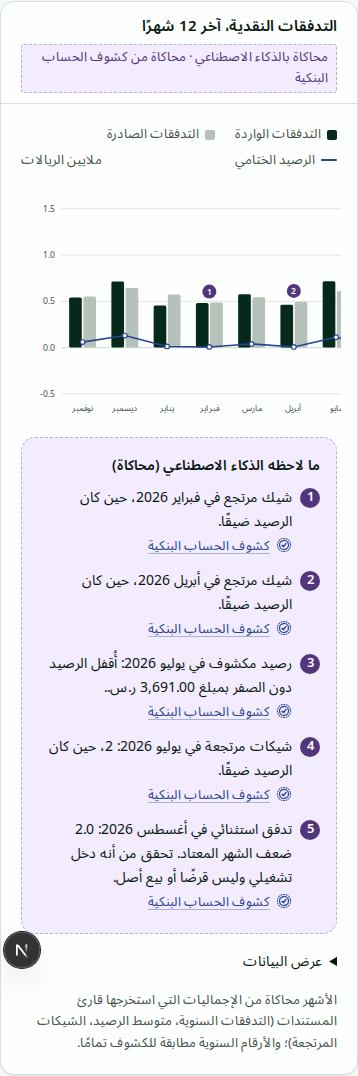
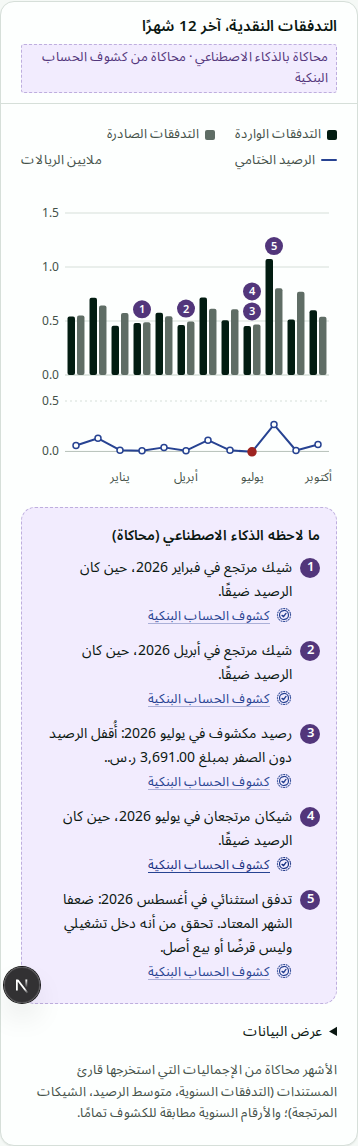
feat(credit): cash-flow chart readability (Layla review)
Drawn at its real width so axis labels are 12px; all twelve months fit on
phones (labels thin out, Arabic sooner); outflow bars in ink-subtle for 3:1
contrast, inflows in pine-deep; the closing balance in its own strip with a
zero line and red overdrawn months; no gridline below zero. Arabic dual and
plural for returned cheques, and "twice a typical month". DESIGN.md: the
left-to-right time axis rule for charts in Arabic.

diff --git a/src/components/credit/manager/cashflow-chart.tsx b/src/components/credit/manager/cashflow-chart.tsx
@@ -1,7 +1,7 @@
 "use client";
 
-import { useMemo } from "react";
-import { annotate, monthlyCashflow, type CashflowAnnotation } from "@/domain/credit/cashflow";
+import { useEffect, useMemo, useRef, useState } from "react";
+import { annotate, monthlyCashflow, type CashflowAnnotation, type CashflowMonth } from "@/domain/credit/cashflow";
 import type { CreditProfile } from "@/domain/credit/types";
 import { sar } from "@/domain/money";
 import type { CreditDocument } from "@/domain/types";
@@ -10,20 +10,56 @@ import { credit } from "@/i18n/credit";
 import { useFormat, useLocale, useMessages } from "@/i18n/locale";
 import { AiLabel, EvidenceSeal, Panel } from "@/components/ui";
 
-const W = 720;
-const H = 300;
-const PAD = { top: 28, right: 16, bottom: 34, left: 52 };
+/** Vertical layout in CSS pixels. The chart is drawn at its real width, so 12px labels render at 12px. */
+const H = 304;
+const LEFT = 44;
+const RIGHT = 8;
+const BARS = { top: 26, bottom: 188 };
+const STRIP = { top: 214, bottom: 272 };
+const LABEL_Y = 294;
+const FONT = 12;
 
 /** Short month names in the reader's language; Latin digits, Gregorian calendar (the Saudi finance-tool norm). */
 const monthName = (ym: string, locale: "en" | "ar", withYear = false) =>
-  new Intl.DateTimeFormat(locale === "ar" ? "ar-SA-u-nu-latn-ca-gregory" : "en-GB", { month: "short", ...(withYear ? { year: "numeric" } : {}), timeZone: "UTC" }).format(new Date(`${ym}-01T00:00:00Z`));
+  new Intl.DateTimeFormat(locale === "ar" ? "ar-SA-u-nu-latn-ca-gregory" : "en-GB", { month: "short", ...(withYear ? { year: "numeric" } : {}), timeZone: "UTC" }).format(
+    new Date(`${ym}-01T00:00:00Z`),
+  );
+
+/** A round step (1, 2 or 5 x 10^n) for about `count` intervals over a span. */
+function niceStep(span: number, count: number): number {
+  const rough = span / count || 1;
+  const mag = 10 ** Math.floor(Math.log10(rough));
+  return [1, 2, 5, 10].map((k) => k * mag).find((v) => v >= rough)!;
+}
+
+/** "1.5", "0.25", never "-0.0". */
+const millions = (v: number, step: number) => {
+  const digits = step >= 1_000_000 ? 0 : step >= 100_000 ? 1 : 2;
+  return (Math.abs(v) < step / 1000 ? 0 : v / 1_000_000).toFixed(digits);
+};
+
+/** Width of the element, measured after mount and on resize; 0 until measured. */
+function useWidth() {
+  const ref = useRef<HTMLDivElement>(null);
+  const [width, setWidth] = useState(0);
+  useEffect(() => {
+    const el = ref.current;
+    if (!el) return;
+    const ro = new ResizeObserver(([entry]) => setWidth(Math.round(entry!.contentRect.width)));
+    ro.observe(el);
+    return () => ro.disconnect();
+  }, []);
+  return [ref, width] as const;
+}
 
 /**
  * Twelve months of cash flow from the bank statements: inflow and outflow bars,
- * the closing balance as a line, and numbered simulated-AI notes pinned to
- * months, each linking to the bank-statement evidence. The time axis runs left
- * to right in both languages, with Latin digits. Fixed aspect ratio, so the
- * page never shifts; the data is also available as a table.
+ * the closing balance in its own strip underneath (so it is readable at its own
+ * scale, with overdrawn months marked), and numbered simulated-AI notes pinned
+ * to months, each linking to the bank-statement evidence. The time axis runs
+ * left to right in both languages, with Latin digits. The chart has a fixed
+ * height and fits all twelve months at any width, so nothing shifts or hides;
+ * the data is also available as a table.
  */
 export function CashflowChart({ profile, asOf, seed, documents }: { profile: CreditProfile; asOf: string; seed: string; documents: CreditDocument[] }) {
   const all = useMessages(credit);
@@ -32,6 +68,7 @@ export function CashflowChart({ profile, asOf, seed, documents }: { profile: Cre
   const locale = useLocale();
   const months = useMemo(() => monthlyCashflow(profile, asOf, seed), [profile, asOf, seed]);
   const notes = useMemo(() => annotate(months, profile.bank?.negativeBalanceDays ?? 0), [months, profile.bank?.negativeBalanceDays]);
+  const [frame, width] = useWidth();
   if (months.length !== 12) return null;
 
   const bankDoc = documents.find((d) => d.type === "bank_statements");
@@ -40,34 +77,19 @@ export function CashflowChart({ profile, asOf, seed, documents }: { profile: Cre
     return bankDoc && key ? `#${bankDoc.id}-${key}` : undefined;
   };
 
-  // Round tick steps (1, 2 or 5 x 10^n) so the axis reads cleanly.
-  const rawTop = Math.max(...months.flatMap((x) => [x.inflowSar, x.outflowSar, x.closingSar]));
-  const rawBottom = Math.min(0, ...months.map((x) => x.closingSar));
-  const rough = (rawTop - rawBottom) / 4 || 1;
-  const mag = 10 ** Math.floor(Math.log10(rough));
-  const step = [1, 2, 5, 10].map((k) => k * mag).find((v) => v >= rough)!;
-  const bottom = Math.floor(rawBottom / step) * step;
-  const top = Math.ceil(rawTop / step) * step;
-  const span = top - bottom || 1;
-  const plotW = W - PAD.left - PAD.right;
-  const plotH = H - PAD.top - PAD.bottom;
-  const y = (v: number) => PAD.top + ((top - v) / span) * plotH;
-  const slot = plotW / 12;
-  const x = (i: number) => PAD.left + slot * i + slot / 2;
-  const bar = slot * 0.3;
-  const ticks = Array.from({ length: Math.round(span / step) + 1 }, (_, k) => bottom + k * step);
-  const digits = step >= 1_000_000 ? 0 : step >= 100_000 ? 1 : 2;
-  const millions = (v: number) => (Math.abs(v) < step / 1000 ? 0 : v / 1_000_000).toFixed(digits);
-
   const noteText = (n: CashflowAnnotation) => {
     const month = monthName(n.month, locale, true);
     switch (n.kind) {
       case "one_off_inflow":
-        return fill(m.note.one_off_inflow, { month, times: n.value.toFixed(1) });
+        return n.value.toFixed(1) === "2.0" ? fill(m.note.one_off_inflow_double, { month }) : fill(m.note.one_off_inflow, { month, times: n.value.toFixed(1) });
       case "seasonal_dip":
         return fill(m.note.seasonal_dip, { month, times: n.value.toFixed(2) });
       case "returned_cheque":
-        return n.value === 1 ? fill(m.note.returned_cheque, { month }) : fill(m.note.returned_cheques, { month, n: n.value });
+        return n.value === 1
+          ? fill(m.note.returned_cheque, { month })
+          : n.value === 2
+            ? fill(m.note.returned_cheques_two, { month })
+            : fill(m.note.returned_cheques, { month, n: n.value });
       case "overdrawn":
         return fill(m.note.overdrawn, { month, amount: f.money(sar(Math.abs(n.value))) });
     }
@@ -83,61 +105,24 @@ export function CashflowChart({ profile, asOf, seed, documents }: { profile: Cre
       <Panel title={m.title} aside={<AiLabel agent={m.simulated} />}>
         <div className="space-y-4">
           <ul className="flex flex-wrap gap-x-5 gap-y-1 text-xs text-ink-muted" aria-hidden="true">
-            <li className="flex items-center gap-1.5"><span className="size-2.5 rounded-xs bg-pine" />{m.inflow}</li>
-            <li className="flex items-center gap-1.5"><span className="size-2.5 rounded-xs bg-line-strong" />{m.outflow}</li>
-            <li className="flex items-center gap-1.5"><span className="h-0.5 w-4 rounded-full bg-stamp" />{m.closing}</li>
+            <li className="flex items-center gap-1.5">
+              <span className="size-2.5 rounded-xs bg-pine-deep" />
+              {m.inflow}
+            </li>
+            <li className="flex items-center gap-1.5">
+              <span className="size-2.5 rounded-xs bg-ink-subtle" />
+              {m.outflow}
+            </li>
+            <li className="flex items-center gap-1.5">
+              <span className="h-0.5 w-4 rounded-full bg-stamp" />
+              {m.closing}
+            </li>
             <li className="ms-auto">{m.unit}</li>
           </ul>
 
-          {/* Time runs left to right in both languages, as in Saudi finance tools. On a phone the
-              chart keeps a readable minimum width and scrolls within its own frame. */}
-          <div dir="ltr" className="-mx-1 overflow-x-auto px-1" tabIndex={0} aria-label={m.title} role="region">
-           <div className="min-w-[560px]" style={{ aspectRatio: `${W} / ${H}` }}>
-            <svg viewBox={`0 0 ${W} ${H}`} className="h-full w-full" role="img" aria-label={summary}>
-              {ticks.map((t) => (
-                <g key={t} aria-hidden="true">
-                  <line x1={PAD.left} x2={W - PAD.right} y1={y(t)} y2={y(t)} stroke="var(--color-line)" strokeWidth={t === 0 ? 1.5 : 1} />
-                  <text x={PAD.left - 8} y={y(t) + 4} textAnchor="end" fontSize="11" fill="var(--color-ink-muted)" style={{ fontVariantNumeric: "tabular-nums" }}>
-                    {millions(t)}
-                  </text>
-                </g>
-              ))}
-              {months.map((mo, i) => (
-                <g key={mo.month} aria-hidden="true">
-                  <rect x={x(i) - bar - 1} y={y(mo.inflowSar)} width={bar} height={Math.max(0, y(0) - y(mo.inflowSar))} rx="2" fill="var(--color-pine)" />
-                  <rect x={x(i) + 1} y={y(mo.outflowSar)} width={bar} height={Math.max(0, y(0) - y(mo.outflowSar))} rx="2" fill="var(--color-line-strong)" />
-                  <text x={x(i)} y={H - 12} textAnchor="middle" fontSize="11" fill="var(--color-ink-muted)">
-                    {monthName(mo.month, locale)}
-                  </text>
-                </g>
-              ))}
-              <polyline
-                aria-hidden="true"
-                fill="none"
-                stroke="var(--color-stamp)"
-                strokeWidth="2"
-                strokeLinejoin="round"
-                points={months.map((mo, i) => `${x(i)},${y(mo.closingSar)}`).join(" ")}
-              />
-              {months.map((mo, i) => (
-                <circle key={mo.month} aria-hidden="true" cx={x(i)} cy={y(mo.closingSar)} r="3" fill="var(--color-surface)" stroke="var(--color-stamp)" strokeWidth="1.5" />
-              ))}
-              {notes.map((n, k) => {
-                const mo = months[n.index]!;
-                // Notes on the same month stack upwards instead of overlapping.
-                const stack = notes.slice(0, k).filter((o) => o.index === n.index).length;
-                const cy = Math.max(10, y(Math.max(mo.inflowSar, mo.outflowSar, mo.closingSar)) - 14 - stack * 20);
-                return (
-                  <g key={`${n.kind}-${n.index}`} aria-hidden="true">
-                    <circle cx={x(n.index)} cy={cy} r="9" fill="var(--color-ai)" />
-                    <text x={x(n.index)} y={cy + 4} textAnchor="middle" fontSize="11" fontWeight="600" fill="var(--color-surface)">
-                      {k + 1}
-                    </text>
-                  </g>
-                );
-              })}
-            </svg>
-           </div>
+          {/* Time runs left to right in both languages, as in Saudi finance tools. Fixed height: no layout shift while it measures. */}
+          <div ref={frame} dir="ltr" className="w-full" style={{ height: H }}>
+            {width > 0 && <Plot width={width} months={months} notes={notes} locale={locale} summary={summary} />}
           </div>
 
           <section className="rounded-xl border border-dashed border-ai-line bg-ai-soft p-4" data-testid="credit-cashflow-notes">
@@ -168,16 +153,26 @@ export function CashflowChart({ profile, asOf, seed, documents }: { profile: Cre
                 <caption className="sr-only">{m.tableCaption}</caption>
                 <thead className="text-xs text-ink-muted">
                   <tr>
-                    <th scope="col" className="py-1 text-start font-medium">{m.colMonth}</th>
-                    <th scope="col" className="py-1 text-end font-medium">{m.inflow}</th>
-                    <th scope="col" className="py-1 text-end font-medium">{m.outflow}</th>
-                    <th scope="col" className="py-1 text-end font-medium">{m.closing}</th>
+                    <th scope="col" className="py-1 text-start font-medium">
+                      {m.colMonth}
+                    </th>
+                    <th scope="col" className="py-1 text-end font-medium">
+                      {m.inflow}
+                    </th>
+                    <th scope="col" className="py-1 text-end font-medium">
+                      {m.outflow}
+                    </th>
+                    <th scope="col" className="py-1 text-end font-medium">
+                      {m.closing}
+                    </th>
                   </tr>
                 </thead>
                 <tbody>
                   {months.map((mo) => (
                     <tr key={mo.month} className="border-t border-line">
-                      <th scope="row" className="py-1 text-start font-normal">{monthName(mo.month, locale, true)}</th>
+                      <th scope="row" className="py-1 text-start font-normal">
+                        {monthName(mo.month, locale, true)}
+                      </th>
                       <td className="py-1 text-end tabular-nums">{f.money(sar(mo.inflowSar))}</td>
                       <td className="py-1 text-end tabular-nums">{f.money(sar(mo.outflowSar))}</td>
                       <td className={`py-1 text-end tabular-nums ${mo.closingSar < 0 ? "text-negative" : ""}`}>{f.money(sar(mo.closingSar))}</td>
@@ -191,5 +186,107 @@ export function CashflowChart({ profile, asOf, seed, documents }: { profile: Cre
         </div>
       </Panel>
     </div>
+  );
+}
+
+function Plot({ width, months, notes, locale, summary }: { width: number; months: CashflowMonth[]; notes: CashflowAnnotation[]; locale: "en" | "ar"; summary: string }) {
+  const plotW = width - LEFT - RIGHT;
+  const slot = plotW / 12;
+  const x = (i: number) => LEFT + slot * i + slot / 2;
+  const bar = Math.min(18, Math.max(4, slot * 0.34));
+  // On narrow screens label every other month (ending on the latest), so labels never collide.
+  // Arabic month names are longer, so they thin out sooner (every third month on a phone).
+  const labelEvery = locale === "ar" ? (slot < 32 ? 3 : slot < 54 ? 2 : 1) : slot < 40 ? 2 : 1;
+
+  // Bars: inflows and outflows from zero.
+  const barStep = niceStep(Math.max(...months.flatMap((mo) => [mo.inflowSar, mo.outflowSar])), 4);
+  const barTop = Math.ceil(Math.max(...months.flatMap((mo) => [mo.inflowSar, mo.outflowSar])) / barStep) * barStep || barStep;
+  const yBar = (v: number) => BARS.bottom - (v / barTop) * (BARS.bottom - BARS.top);
+  const barTicks = Array.from({ length: Math.round(barTop / barStep) + 1 }, (_, k) => k * barStep);
+
+  // Strip: the closing balance at its own scale, always showing zero.
+  const closings = months.map((mo) => mo.closingSar);
+  const lo = Math.min(0, ...closings);
+  const hi = Math.max(0, ...closings);
+  const stripStep = niceStep(hi - lo, 1);
+  const sHi = Math.ceil(hi / stripStep) * stripStep || stripStep;
+  // Just enough room below zero to show an overdrawn dip; only the top and zero are labelled.
+  const sLo = Math.min(lo, -0.15 * sHi);
+  const yStrip = (v: number) => STRIP.bottom - ((v - sLo) / (sHi - sLo)) * (STRIP.bottom - STRIP.top);
+  const stripTicks = [sHi, 0];
+
+  const label = { fontSize: FONT, fill: "var(--color-ink-muted)", style: { fontVariantNumeric: "tabular-nums" } } as const;
+
+  return (
+    <svg width={width} height={H} viewBox={`0 0 ${width} ${H}`} role="img" aria-label={summary} className="block overflow-visible">
+      {/* Bars */}
+      {barTicks.map((t) => (
+        <g key={`b${t}`} aria-hidden="true">
+          <line x1={LEFT} x2={width - RIGHT} y1={yBar(t)} y2={yBar(t)} stroke="var(--color-line)" strokeWidth={t === 0 ? 1.5 : 1} />
+          <text x={LEFT - 6} y={yBar(t) + 4} textAnchor="end" {...label}>
+            {millions(t, barStep)}
+          </text>
+        </g>
+      ))}
+      {months.map((mo, i) => (
+        <g key={mo.month} aria-hidden="true">
+          <rect x={x(i) - bar - 1} y={yBar(mo.inflowSar)} width={bar} height={Math.max(0, BARS.bottom - yBar(mo.inflowSar))} rx="2" fill="var(--color-pine-deep)" />
+          <rect x={x(i) + 1} y={yBar(mo.outflowSar)} width={bar} height={Math.max(0, BARS.bottom - yBar(mo.outflowSar))} rx="2" fill="var(--color-ink-subtle)" />
+          {(11 - i) % labelEvery === 0 && (
+            <text x={x(i)} y={LABEL_Y} textAnchor="middle" data-month={mo.month} {...label}>
+              {monthName(mo.month, locale)}
+            </text>
+          )}
+        </g>
+      ))}
+
+      {/* Closing-balance strip */}
+      <g aria-hidden="true">
+        {stripTicks.map((t) => (
+          <g key={`s${t}`}>
+            <line
+              x1={LEFT}
+              x2={width - RIGHT}
+              y1={yStrip(t)}
+              y2={yStrip(t)}
+              stroke={t === 0 ? "var(--color-line-strong)" : "var(--color-line)"}
+              strokeWidth={1}
+              strokeDasharray={t === 0 ? undefined : "2 3"}
+            />
+            <text x={LEFT - 6} y={yStrip(t) + 4} textAnchor="end" {...label}>
+              {millions(t, stripStep)}
+            </text>
+          </g>
+        ))}
+        <polyline fill="none" stroke="var(--color-stamp)" strokeWidth="2" strokeLinejoin="round" points={months.map((mo, i) => `${x(i)},${yStrip(mo.closingSar)}`).join(" ")} />
+        {months.map((mo, i) => (
+          <circle
+            key={mo.month}
+            cx={x(i)}
+            cy={yStrip(mo.closingSar)}
+            r={mo.closingSar < 0 ? 4 : 3}
+            fill={mo.closingSar < 0 ? "var(--color-negative)" : "var(--color-surface)"}
+            stroke={mo.closingSar < 0 ? "var(--color-negative)" : "var(--color-stamp)"}
+            strokeWidth="1.5"
+            data-overdrawn={mo.closingSar < 0 || undefined}
+          />
+        ))}
+      </g>
+
+      {/* Numbered notes above the month's bars; notes on the same month stack upwards. */}
+      {notes.map((n, k) => {
+        const mo = months[n.index]!;
+        const stack = notes.slice(0, k).filter((o) => o.index === n.index).length;
+        const cy = Math.max(10, yBar(Math.max(mo.inflowSar, mo.outflowSar)) - 13 - stack * 20);
+        return (
+          <g key={`${n.kind}-${n.index}`} aria-hidden="true">
+            <circle cx={x(n.index)} cy={cy} r="9" fill="var(--color-ai)" />
+            <text x={x(n.index)} y={cy + 4} textAnchor="middle" fontSize="11" fontWeight="600" fill="var(--color-surface)">
+              {k + 1}
+            </text>
+          </g>
+        );
+      })}
+    </svg>
   );
 }

diff --git a/src/i18n/credit.ts b/src/i18n/credit.ts
@@ -578,8 +578,10 @@ export const credit = defineMessages(
       noNotes: "Nothing unusual: steady inflows, no returned cheques, never overdrawn.",
       note: {
         one_off_inflow: "One-off inflow in {month}: {times}x a typical month. Check it is trading income, not a loan or asset sale.",
+        one_off_inflow_double: "One-off inflow in {month}: twice a typical month. Check it is trading income, not a loan or asset sale.",
         seasonal_dip: "Seasonal dip in {month}: inflows at {times}x a typical month, in line with the summer slowdown.",
         returned_cheque: "A returned cheque in {month}, when the balance was tight.",
+        returned_cheques_two: "2 returned cheques in {month}, when the balance was tight.",
         returned_cheques: "{n} returned cheques in {month}, when the balance was tight.",
         overdrawn: "Overdrawn in {month}: the balance closed {amount} below zero.",
       },
@@ -1174,9 +1176,11 @@ export const credit = defineMessages(
       noNotes: "لا شيء غير معتاد: تدفقات منتظمة، دون شيكات مرتجعة، ودون رصيد مكشوف.",
       note: {
         one_off_inflow: "تدفق استثنائي في {month}: {times} ضعف الشهر المعتاد. تحقق من أنه دخل تشغيلي وليس قرضًا أو بيع أصل.",
+        one_off_inflow_double: "تدفق استثنائي في {month}: ضعفا الشهر المعتاد. تحقق من أنه دخل تشغيلي وليس قرضًا أو بيع أصل.",
         seasonal_dip: "انخفاض موسمي في {month}: التدفقات {times} من الشهر المعتاد، بما يتوافق مع تباطؤ الصيف.",
         returned_cheque: "شيك مرتجع في {month}، حين كان الرصيد ضيقًا.",
-        returned_cheques: "شيكات مرتجعة في {month}: {n}، حين كان الرصيد ضيقًا.",
+        returned_cheques_two: "شيكان مرتجعان في {month}، حين كان الرصيد ضيقًا.",
+        returned_cheques: "{n} شيكات مرتجعة في {month}، حين كان الرصيد ضيقًا.",
         overdrawn: "رصيد مكشوف في {month}: أُقفل الرصيد دون الصفر بمبلغ {amount}.",
       },
       evidence: "كشوف الحساب البنكية",

diff --git a/e2e/credit-cashflow.spec.ts b/e2e/credit-cashflow.spec.ts
@@ -21,9 +21,19 @@ for (const locale of ["en", "ar"] as const) {
     const plot = chart.locator('svg[role="img"]');
     await expect(plot).toHaveAttribute("aria-label", /.+/);
     expect(await plot.evaluate((el) => getComputedStyle(el.parentElement!).direction)).toBe("ltr");
-    const xs = await plot.locator("text[text-anchor='middle'][y]").evaluateAll((els) => els.filter((e) => !e.getAttribute("font-weight")).map((e) => Number(e.getAttribute("x"))));
-    expect(xs.length).toBeGreaterThanOrEqual(12);
-    expect(xs[0]!).toBeLessThan(xs[11]!);
+    // All twelve months fit the frame at any width (every other one labelled on phones), oldest on the left.
+    const labels = plot.locator("text[data-month]");
+    const xs = await labels.evaluateAll((els) => els.map((e) => Number(e.getAttribute("x"))));
+    expect(xs.length).toBeGreaterThanOrEqual(4);
+    expect(xs[0]!).toBeLessThan(xs[xs.length - 1]!);
+    const months = await labels.evaluateAll((els) => els.map((e) => e.getAttribute("data-month")!));
+    expect([...months].sort()).toEqual(months);
+    const frame = await plot.evaluate((el) => ({ svg: el.getBoundingClientRect().width, box: el.parentElement!.getBoundingClientRect().width }));
+    expect(frame.svg).toBeLessThanOrEqual(frame.box + 1);
+    // Axis labels are readable: 12px as rendered.
+    expect(await labels.first().evaluate((el) => el.getBoundingClientRect().height)).toBeGreaterThanOrEqual(11);
+    // The overdrawn month is marked in the closing-balance strip.
+    await expect(plot.locator("circle[data-overdrawn]")).not.toHaveCount(0);
 
     // Notes: returned cheques and the overdrawn month for this file, each linking to the bank-statement evidence.
     const notes = tid(page, "credit-cashflow-notes").locator("li");

diff --git a/DESIGN.md b/DESIGN.md
@@ -326,6 +326,7 @@ The whole product runs in Arabic, right to left, with the same design language. 
 - **Direction:** layout uses logical properties only (`ms-`/`me-`, `ps-`/`pe-`, `start-`/`end-`, `text-start`/`text-end`, `insetInlineStart` in inline styles). Never `ml-`, `pr-`, `left-`, `text-right` and the like in new code.
 - **Icons:** `arrow-right`, `chevron-right` and `external` mirror automatically under `dir="rtl"` (`Icon` adds `rtl:-scale-x-100`). Hover nudges along the reading direction need an `rtl:` counterpart (`group-hover:translate-x-0.5 rtl:group-hover:-translate-x-0.5`).
 - **Bars and meters** fill from the reading start: score bands, the credit cap meter, factor bars and lead-time bars flip with the direction; the band marker and cap edge are placed with `insetInlineStart`.
+- **Charts over time** keep the time axis left to right in Arabic too, oldest month on the left, with Latin digits, as Saudi bank and Tadawul charts do: wrap the plot in `dir="ltr"`, keep the value axis on the left, and let month names follow the locale. Everything around the chart (title, legend, notes) stays right to left. Reference: the cash-flow chart in the credit case file.
 - **Numbers:** Western digits and `SAR`/`ر.س` amounts stay left to right inside Arabic text; money and counts still align to the column end (`text-end`).
 - **Type:** Arabic sets in Noto Sans Arabic (400 / 600 / 700) with Public Sans as the fallback for Latin names, codes and digits. The scale steps up about 7% with looser leading (display 1.2, body 1.75rem). Arabic is **never letter-spaced**: tracking breaks the joins, so all tracking is zeroed under `lang="ar"`.
 - **Display accent:** the phrase set in Instrument Serif italic in English is set in **Noto Naskh Arabic 700** in Arabic: Arabic has no italic, and the classical Naskh against the sans gives the same contrast. Write it as `font-serif`; the swap is automatic.
